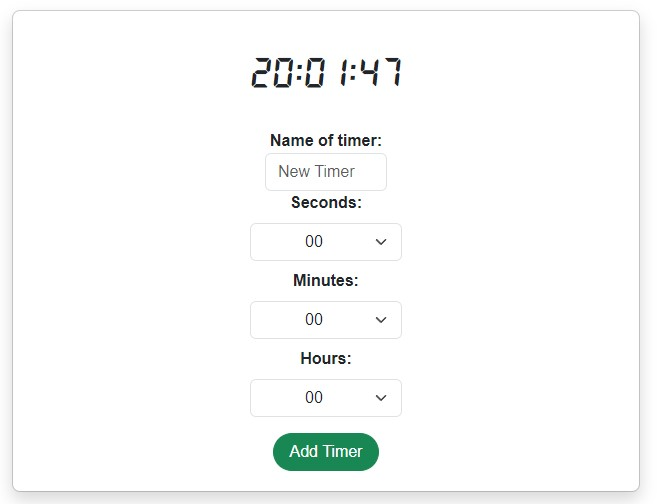
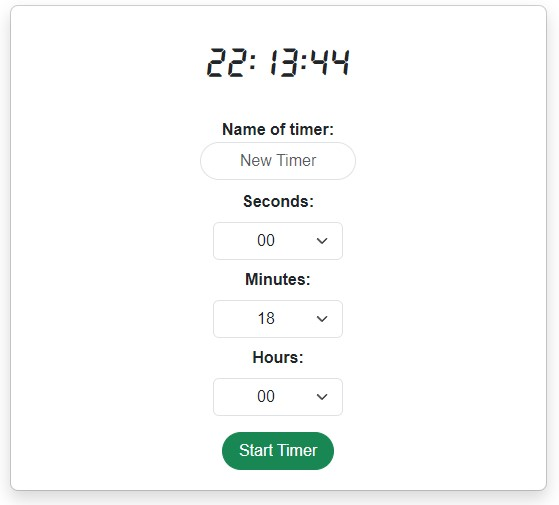
Added Reset Button

diff --git a/src/Timer.js b/src/Timer.js
@@ -2,7 +2,7 @@ import React, { useState, useEffect } from 'react';
 import './timer.css'
 
 const Timer = (props) => {
-  const { timer, removeTimer } = props;
+  const { timer, removeTimer, updateTimerArray  } = props;
   const [remainingTime, setRemainingTime] = useState(calculateRemainingTime(timer));
   const [timerState, setTimerState] = useState('active');
 
@@ -60,19 +60,51 @@ const Timer = (props) => {
     setTimerState('active');
   };
 
+  const handleResetClick = () => {
+    // Calculate the new timerStamp based on the current time and the initial timer length
+    const currentTime = Date.now();
+
+    // define new value for the time stamp of the timer (when it will expire)
+    const newTimerStamp = currentTime + timer.timerLen;
+  
+    // Update the timer's properties
+    updateTimerArray((prevTimers) =>
+        prevTimers.map((prevTimer) =>
+          prevTimer.id === timer.id ? { ...prevTimer, timerStamp: newTimerStamp } : prevTimer
+        )
+      );
+  
+    // Reset the remaining time
+    setRemainingTime(timer.timerLen);
+    // Reset the timer state to 'active'
+    setTimerState('active');
+  };
+  
+  
+
   // workaround to update the classes of li and button items with boostrap styles depending on timerState
   const classNamesLi = `timer-list list-group-item ${timerState === 'expired' ? 'bg-danger' : ''}`;
-  const classNamesBtn = `remove-button btn rounded-pill px-3 ${timerState === 'expired' ? 'btn-light' : 'btn-danger'}`
+  const classNamesBtnRemove = `remove-button btn rounded-pill px-3 ${timerState === 'expired' ? 'btn-light' : 'btn-danger'}`
+
 
   return (
     <li className={classNamesLi} key={timer.id} style={timerState === 'expired' ? { color: 'white' } : {}}>
       <strong>{timer.timerName}: </strong><span>{formatTime(remainingTime)}</span>
+      
       <button
-        className={classNamesBtn}
+        className='btn rounded-pill px-3 btn-warning'
+        onClick={handleResetClick}
+      >
+        &#8634;
+      </button>
+      
+      <button
+        className={classNamesBtnRemove}
         onClick={handleRemoveClick}
       >
         &times;
       </button>
+      
     </li>
   );
 }

diff --git a/src/App.js b/src/App.js
@@ -27,7 +27,7 @@ function App() {
       <Clock />
       <AddTimmerForm addTimer={addTimer}/>
       <ul className='list-group'>{timerArray.map((t)=> 
-        <Timer timer={t} removeTimer={removeTimer}/>)}
+        <Timer timer={t} removeTimer={removeTimer} updateTimerArray={setTimerArray} key={t.id}/>)}
       </ul>
     </div>
   );

diff --git a/src/AddTimerForm.js b/src/AddTimerForm.js
@@ -100,7 +100,7 @@ const AddTimmerForm = (props) => {
           );
         })}
       </select>
-      <input type="submit" value="Add Timer" className='btn btn-success rounded-pill px-3 m-2'/>
+      <input type="submit" value="Start Timer" className='btn btn-success rounded-pill px-3 m-2'/>
     </form>
   )
 }

diff --git a/src/timer.css b/src/timer.css
@@ -1,6 +1,7 @@
 span {
     font-family: 'clockicons';
     margin-left: 6px;
+    margin-right: 10px;
 }
 
 .timer-list {

diff --git a/src/App.css b/src/App.css
@@ -3,7 +3,7 @@
 }
 
 .App button {
-  margin: 0 10px;
+  margin-right: 10px;
 }
 
 .App form {
